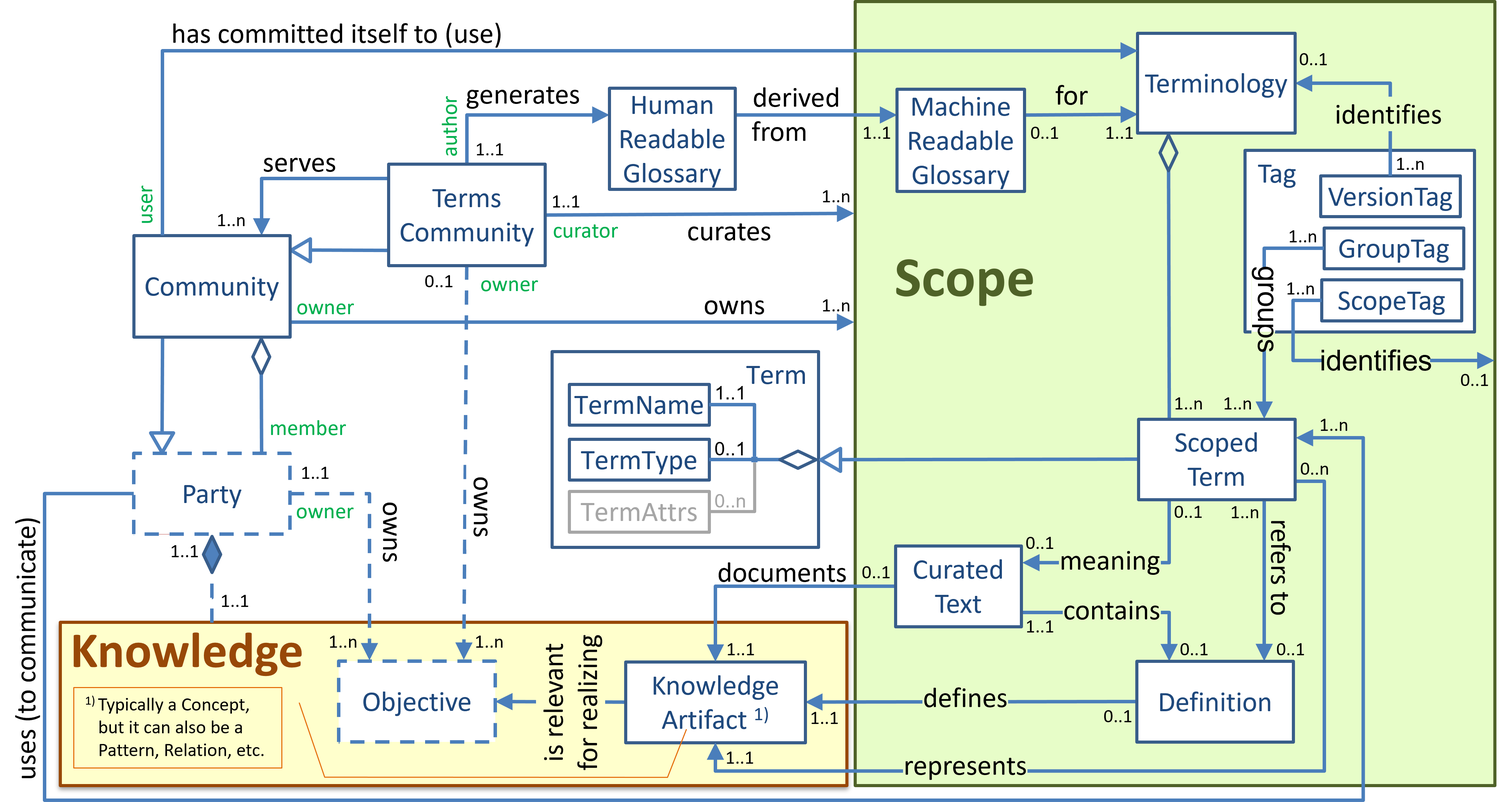
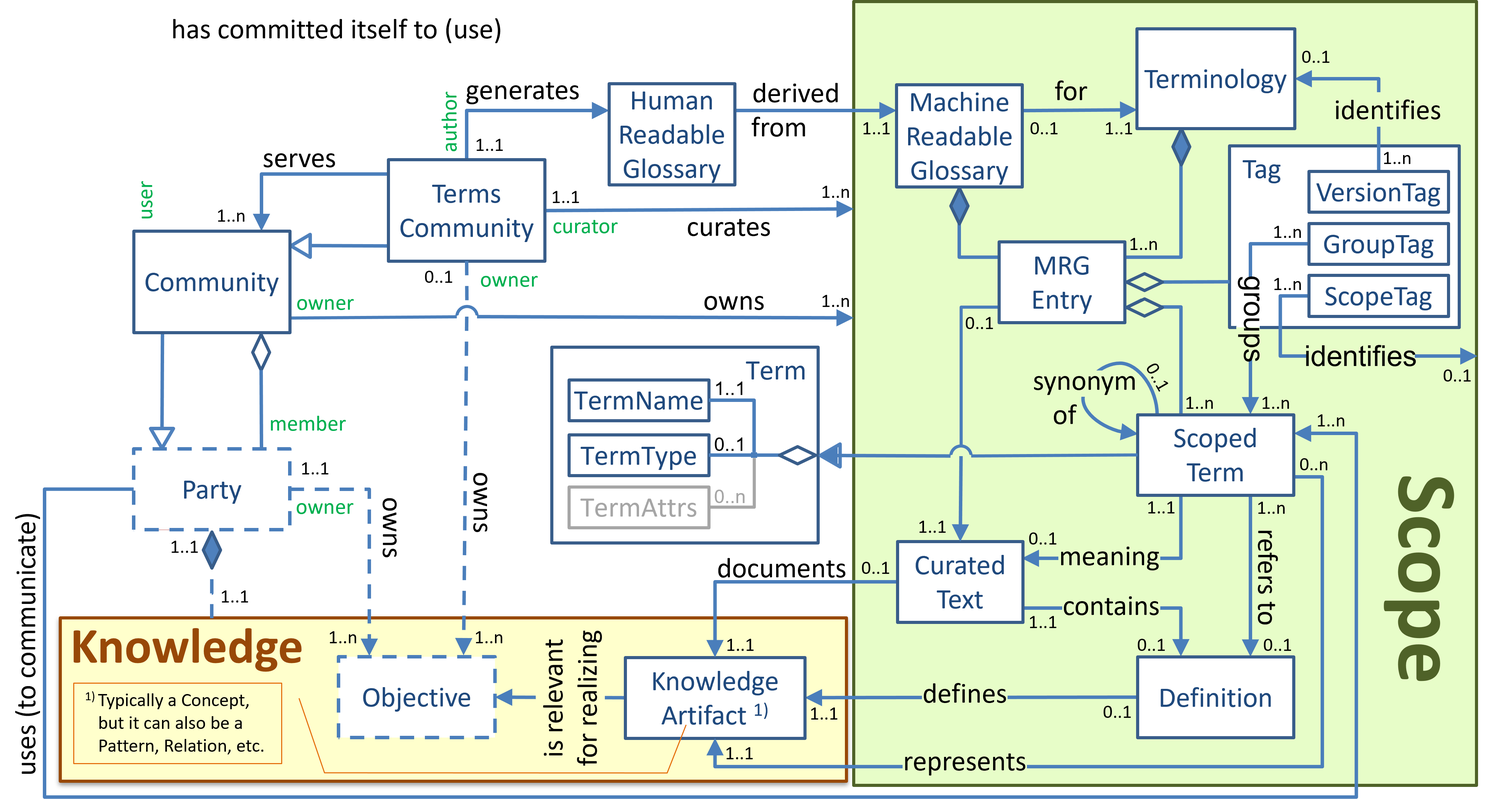
wip on terminology construction

diff --git a/sidebars.js b/sidebars.js
@@ -94,6 +94,10 @@ const sidebars = {
       ],
     },
     { type: 'category',
+      label: 'Mental Models',
+      items: [ { type: 'autogenerated', dirName: 'tev2/terms/patterns' } ]
+    },
+    { type: 'category',
       label: 'File Specs (for Curators)',
       items:
       [ 'tev2/spec-ctexts/ctext-spec',

diff --git a/docs/tev2/manuals/terminology-construction.md b/docs/tev2/manuals/terminology-construction.md
@@ -13,30 +13,44 @@ The entire section on Terminology Engine v 2 (TEv2) is still under construction.
 As TEv2 is not (yet) available, the texts that specify the tool are still 'raw', i.e. not yet processed.<br/>[readers](@) will need to see through some (currently unprocessed) notational conventions.
 :::
 
-[Curators](@) need the ability to construct (different versions of) the [terminology](@) for any [scope](@) they [curate](@). Conceptually, such a construction is equivalent with constructing a set of tuples `{ [termname, term, grouptags] }`, where `termname` [identifies](@) the meaning of the [term](@), `term` is the (humanly recognizable) [word or phrase](term@) that represents this meaning, and `grouptags` is a set of [grouptags](@) that the tuple is associated with; and all this is within the context of a specific version of the [terminology](@) of a specific [scope](@).
+[Curators](@) need the ability to construct (different versions of) the [terminology](@) for any [scope](@) they [curate](@).
 
-The process by which such a tuple-set is constructed is very simple: starting with an empty set, a list of so-called 'term selection criteria' instructions is sequentially processed, where the processing of each such instruction adds or removes tuples to/from the set, or changes the value of the `term` part of a specific tuple (renaming).
+Constructing a [terminology](@) consists of specifying the set of [terms](scoped-term@) that the [terminology](@) consists of, and making sure there is an [MRG entry](@) that holds all associated (meta) data that other (e.g. third party) tools may need. In other words, it consists of constructing the set of [MRG entries](@) for the [terms](scoped-term@) of the [terminology](@).
 
-[Curators](@) create and maintain the list of 'term selection criteria' instructions for every specific (version of a) [terminology](@) they decide to manage. Each such [terminology](@) has an entry in the [`versions` section](/docs/tev2/spec-files/saf#versions) of the [SAF](@) (of the designated [scope](@)), and the term selection criteria reside in the `termselcrit` field of that section.
+An [MRG entry](@) contains (meta) data about (the [(scoped) term](@) that represents/[identifies](@)) a specific [knowledge artifact](@) (an illustration can be found in the [terminology pattern](/docs/tev2/terms/patterns/pattern-terminology#formalized-model)). For constructing a [terminology](@), the following such data is relevant (as it enables one to [identify](@) (groups of) [terms](scoped-term@) that are to become part of that [terminology](@)):
+- the (preferred) [(scoped) term](@) for representing the [knowledge artifact](@), and its synonymous [terms](scoped-term@);
+- an [identifier](@) that enables one to find the [curated text](@) that documents this [artifact](knowledge-artifact@).
+- various [tags](@), amongst which are the [grouptags](@) that indicate the groups of [terms](scoped-term@) that the [term](scoped-term@) is a member of.
 
-## Term Selection Instruction Syntax {#syntax}
+The process for creating a [terminology](@) is as follows:
+1. start with an empty set of [MRG entries](@) - we use the term "terminology-under-construction" to refer to this set.
+2. sequentially process a list of so-called 'term selection criteria' instructions, where processing one of them adds, removes, or otherwise manipulates [MRG entries](@) in the terminology-under-construction (e.g. for renaming [terms](scoped-term@)). This is detailed [below](#crit-processing).
 
-We have distinct syntaxes to manipulate the set of tuples, each of which is specified in a subsequent section, that also describes how it will affect the tuple set under construction.
+[Curators](@) create and maintain the list of 'term selection criteria' instructions for every specific (version of a) [terminology](@) they decide to manage. Each such (versioned) [terminology](@) has an entry in the [`versions` section](/docs/tev2/spec-files/saf#versions) of the [SAF](@) (of the designated [scope](@)), and the term selection criteria reside in the `termselcrit` field of that section.
+
+## Processing a Term Selection Criterion {#crit-processing}
+
+We have defined a number of manipulations that can be done to contribute to construct a [terminology](@):
+1. Add [MRG entries](@) to the terminology-under-construction;
+2. Remove [MRG entries](@) from the terminology-under-construction;
+3. Rename/rewrite specific parts of [MRG entries](@), which enables [curators](@) e.g. to rename [terms](@).
 
 :::info Editor's note
 The below text must remain in sync with the first post of [issue #3 of the mrgt-repo](https://github.com/trustoverip/ctwg-toolkit-mrg/issues/3).
 :::
 
-### Adding terms to the tuple set {#syntax-add}
+### Adding MRG Entries to the terminology-under-construction {#syntax-add}
 
-A [curator](@) can add [terms](@) to the tuple set from different sources, i.e.
+A [curator](@) can add [MRG entries](@) to the terminology-under-construction from different sources, i.e.
 - [terms](@) that are defined in a [curated text](@) that exists in the current [scope](@), and
-- [terms](@) that are defined by an entry in some [MRG](@).
+- [terms](@) that are defined by an [MRG entry](@) in an existing [MRG](@) (from another [scope](@), or another version of the current [scope](@)).
+
+Note that any reference to (an [MRG entry](@) in) (the specific version of) the [terminology](@) that is being constructed, MUST be interpreted as a reference to the [curated text](@) from which the [MRG entry](@) would have been constructed.
 
 The following syntaxes can be used for adding terms (whitespace is disregarded):
+- `terms [ <termslist> ] @<scopetag>:<vsntag>`
+- `ids [ <idslist> ] @<scopetag>:<vsntag>`
 - `tags [ <grouptagslist> ] @<scopetag>:<vsntag>`
-- `terms [ <termlist> ] @<scopetag>:<vsntag>`
-- `ids [ <idlist> ] @<scopetag>:<vsntag>`
 - `* @<scopetag>:<vsntag>`
 
 <details>
@@ -44,9 +58,11 @@ The following syntaxes can be used for adding terms (whitespace is disregarded):
 
 | Instruction | What it does when processed |
 | :---------- | :---------- |
-| `tags[management,governance]@essiflab` | adds all [terms](@) that are part of the currently used [terminology](@) of the [scope](@) `essiflab`, that have the [grouptag](@) `management` or `governance`, to the tuple set.  |
-| `terms[party]@essiflab:v3.1` | adds the [term](@) `party` from version `v3.1` of the [terminology](@) of [scope](@) `essiflab`. |
-| `ids[pattern-party-actor-action]@essiflab` | adds the [term](@) to the tuple set that is specified in the [mrg entry](@) whose `id`-field contains `pattern-party-actor-action`. |
+| `terms[party]@essiflab:v3.1` | selects the [term](scoped-term@) `party@essiflab:v3.1`, and adds an [MRG entry](@) for the [knowledge artifact](@) that it represents. |
+| `ids[pattern-party-actor-action]@essiflab` | selects the [curated text](@) [identified](@) by `pattern-party-actor-action`, and adds an [MRG entry](@) for the [knowledge artifact](@) that it documents. |
+| `tags[management,governance]@essiflab` | selects all [terms](@) that are part of the default [terminology](@) of [scope](@) `essiflab`, that have the [grouptag](@) `management` or `governance`, and adds an [MRG entry](@) for each of them. |
+| `* @ctwg` | selects all [terms](@) that are part of the default [terminology](@) of the [scope(@) `ctwg`, and adds an [MRG entry](@) for each of them. |
+| `* @` | selects all [curated texts](@) from the current [scope](@), and for each of them, adds an [MRG entry](@) for the [knowledge artifact](@) that it documents.  |
 
 </details>
 
@@ -54,10 +70,10 @@ The following syntaxes can be used for adding terms (whitespace is disregarded):
 
 | symbol            | description |
 | ----------------- | :---------- |
-| `<vsntag>`        | the (optional) [versiontag](@) that [identifies](@) the version of the [terminology](@) from which [terms](@) are to be selected.|
-| `<scopetag>`      | the (optional) [scopetag](@) that [identifies](@) the [scope](@) from which [terms](@) are to be selected.|
+| `<vsntag>`        | (optional) [versiontag](@) that [identifies](@) the version of the [terminology](@) from which [terms](@) are to be selected. |
+| `<scopetag>`      | (optional) [scopetag](@) that [identifies](@) the [scope](@) from which [terms](@) are to be selected. |
 | `<grouptagslist>` | a (non-empty) comma-separated list of [grouptags](@). |
-| `<termnamelist>`    | a (non-empty) comma-separated list of [termnames](@). |
+| `<termslist>`     | a (non-empty) comma-separated list of [terms](@). |
 
 This syntax is processed as follows:
 1. **Select the source** from which to obtain the [terms](@), as follows:
@@ -75,7 +91,7 @@ This syntax is processed as follows:
 
 [^1]: In practice, tuples would typically also contain all other attributes that are associated with terms, similar, if not exactly the same as an [MRG entry](@).
 
-### Removing terms from the tuple set {#syntax-remove}
+### Removing MRG Entries from a terminology-under-construction {#syntax-remove}
 
 A [curator](@) can remove [terms](@) from the tuple set, using the following syntax (whitespace is disregarded):
 - `-tags [ <grouptagslist> ]`
@@ -102,7 +118,7 @@ This syntax is processed as follows:
 - In case the instruction starts with `-tags`, every tuple in the tuple set that is associated with at least one of the listed [grouptags](@) is removed from that set.
 - In case the instruction starts with `-termnames`, every tuple that is associated with any of the specified [termnames](@) is removed from the tuple set.
 
-### Renaming a term in the tuple set {#syntax-rename}
+### Rename/rewrite specific parts of an MRG entry {#syntax-rename}
 
 In analogy with [namespaces](https://en.wikipedia.org/wiki/Namespace), we accommodate for the renaming of [terms](@) as they are 'imported' from [terminologies](@) other than the one that we are constructing. However, the analogy breaks down in the sense that it is not only a [term](@) that should be renameable (which is sufficient for [namespaces](https://en.wikipedia.org/wiki/Namespace)), but also certain attributes may need to be changed.
 

diff --git a/docs/tev2/spec-files/21-mrg.md b/docs/tev2/spec-files/21-mrg.md
@@ -49,7 +49,7 @@ scopes: # mappings of scopetags that are used, and their scopedirs
     scopedir: https://github.com/essif-lab/framework/tree/master/docs
   - scopetag: ctwg
     scopedir: https://github.com/trustoverip/ctwg
-entries: # here follows an (unsorted) list of MRG-entries
+entries: # here follows an (unsorted) list of MRG entries
 ~~~
 
 </details>
@@ -112,22 +112,19 @@ An [MRG](@) consists of a list of [MRG entries](@), the purpose of which is that
 | Name         | Req'd | Description |
 | ------------ | :---: | :---------- |
 | `scopetag`     | Y | [Scopetag](@) that [identifies](@) the [scope](@) (within the scope in which the [MRG](@) is constructed) from within which the contents of the [MRG entry](@) is [curated](@), and obtained. The [`scopes` section](#mrg-scopes) in the [MRG](@) SHOULD contain a mapping between the `scopetag` and its associated [scope directory](@).<br/>Must satisfy regex `[a-z0-9_-]+`. |
-| `vsntag`       | Y | [Versiontag](@) that [identifies](@) the version of the [terminology](@) from which the contents of the [MRG entry](@) is obtained. Thus, `scopetag`:`versiontag` [identifies](@) that [terminology](@).<br/>Must satisfy regex `[a-z0-9_-.]+`.  |
+| `vsntag`       | Y | [Versiontag](@) that [identifies](@) the version of the [terminology](@) from which the contents of the [MRG entry](@) is obtained. If the contents of the [MRG entry](@) was constructed from a [curated text](@), its value equals the value of the `vsntag` field in the [`terminology`-section](#mrg-terminology) of the [MRG](@) that this [MRG entry](@) is a part of. As a result, `scopetag`:`versiontag` [identifies](@) the [terminology](@) from which this [MRG entry](@) has originated.<br/>Must satisfy regex `[a-z0-9_-.]+`.  |
 | `id`           | Y | Text that [identifies](@) the [curated text](@) from which the content of this [MRG entry](@) is obtained; it has the same value as the `id`-field in the header of a [curated text](@). In case the contents of the [MRG entry](@) was obtained from another [MRG](@), this field has the same value as the `id` field of the [MRG entry](@) from which the contents was obtained.<br/>Must satisfy regex `[a-z0-9_-]+`. |
-| `termname`     | Y | Name ([Identifier](@)) that is used to represent a [knowledge artifact](@). Actual, i.e. successful [identification](@) of the [knowledge artifact](@) may also depend on other characteristics, such as the `termtype`, as names are known to be [semantically overloaded](https://en.wikipedia.org/wiki/Semantic_overload). See [TEv2 identification](/docs/tev2/various-identifiers) for more details.<br/>Must satisfy regex `[a-z0-9_-]+`. |
-| `termtype`     | Y | Text that [identifies](@) the kind of [knowledge artifact](@) that this [MRG entry](@) refers to. Typical values would be `concept`, `relation`, `pattern` (or `mental-model`), `term` (or `alias`), or `usecase`.<br/>Must satisfy regex `[a-z0-9_-]+`. |
+| `termname`     | Y | [Name](term-name@) ([Identifier](@)) that is used to represent a [knowledge artifact](@). Actual, i.e. successful [identification](@) of the [knowledge artifact](@) may also depend on other characteristics, such as the `termtype`, as names are known to be [semantically overloaded](https://en.wikipedia.org/wiki/Semantic_overload). See [TEv2 identification](/docs/tev2/various-identifiers) for more details.<br/>Must satisfy regex `[a-z0-9_-]+`. |
+| `termtype`     | Y | [Text](term-type@) that [identifies](@) the kind of [knowledge artifact](@) that this [MRG entry](@) refers to. Typical values would be `concept`, `relation`, `pattern` (or `mental-model`), `term` (or `alias`), or `usecase`.<br/>Must satisfy regex `[a-z0-9_-]+`. |
 | `termattrs`    | n | List of [attributes](term-attrs@) that enable one to distinguish between [knowledge artifacts](@) that have the same [term name](@) and are of the same [type](term-type@). |
-| `glossaryText` | n | Text that is used as the (raw) contents for the entry of this [term](@) in a human readable [glossary](@). Note that this text SHOULD be allowed to contain [term refs](@). |
-| `hoverText`    | n | Text that can be used as the contents of a popup that shows as the [term](@) is rendered in a web browser and the [reader](@) hovers over the [term](@) with its mouse. |
-| `termreftext`  | n | `id` | [reftext](@) that [identifies](@) the [curated text](@) that documents the [knowledge artifact](@) that this term represents. |
+| `grouptags`    | n | List of [grouptags](@), each of which signifies that the [(scoped) term](@) that this [MRG entry](@) documents, is part of the group of [terms](@) that it represents.<br/>Each grouptag must satisfy regex `[a-z0-9_-]+`. |
 | `synonyms`     | n | | List of (optionally quoted) [terms](@), that are considered to also represent the [knowledge artifact](@) that is documented by the [curated text](@). |
 | `formphrases`  | n | List of [texts](formphrase@) that are [used to convert](/docs/tev2/spec-tools/trrt#id) the `show text` parts of [term refs](@) into `id`s, for the purpose of accommodating plural forms (for nouns) or conjugate forms (for verbs). For details, see ['Syntax Specs - Form Phrases](/docs/tev2/spec-syntax/form-phrase-syntax).](https://www.debuggex.com/r/TZe27fzbJskMcjl8). |
-| `grouptags`    | n | List of [grouptags](@), each of which signifies that the [(scoped) term](@) that this [MRG entry](@) documents, is part of the group of [terms](@) that it represents.<br/>Each grouptag must satisfy regex `[a-z0-9_-]+`. |
+| `glossaryText` | n | Text that is used as the (raw) contents for the entry of this [term](scoped-term@) in a human readable [glossary](@). Note that this text SHOULD be allowed to contain [term refs](@). |
+| `hoverText`    | n | Text that can be used as the contents of a popup that shows as the [term](scoped-term@) is rendered in a web browser and the [reader](@) hovers over the [term](@) with its mouse. |
 | `status`       | n | Text that identifies the status of the term. ([Communities](@) of) [scopes](@) may specify values for this field. An example is the [status tags used by ToIP](https://github.com/trustoverip/concepts-and-terminology-wg/blob/master/docs/status-tags.md). |
 | `created`      | n | Date at which of the [term](@)-related data was created, in the date format as used within this [scope](@). |
 | `updated`      | n | Date at which of the [term](@)-related data was last modified, in the date format as used within this [scope](@). |
-| `vsntag`       | n | [Versiontag](@) that identifies the version of the [knowledge artifact](@) that this [MRG entry](@) documents (not to be confused with the version of a [terminology](@) of which this [knowledge artifact](@) is a part).<br/>Must satisfy regex `[a-z0-9_-\.]+`. |
-| `commit`       | n | [Versiontag](@) that is a (git/gitlab) commit hash of the latest update of the [knowledge artifact](@). |
 | `contributors` | n | Text that shows (or refers to) the people that have contributed to the texts related to this term. |
 | `locator`      | n | Text that identifies the file that holds the [curated text](@) of the [knowledge artifact](@) that this [MRG entry](@) describes. The full URL of the [curated text](@) is `scopedir`/`curatedir`/`locator`, where `scopedir` and `curatedir` can be found in the [SAF](@) (which is in the root of `scopedir`). Note that `locator` may contain a path. |
 | `navurl`       | n | URL that locates a human readable, rendered version of the [curated text](@) of the [knowledge artifact](@) that this [MRG entry](@) describes. This URL is used to resolve [term refs](@) that refer to this [knowledge artifact](@). |

diff --git a/docs/tev2/terms/terminology.md b/docs/tev2/terms/terminology.md
@@ -9,7 +9,7 @@ formphrases: terminolog{yies}
 grouptags:
 status: proposed
 created: 2022-06-06
-updated: 2022-08-03
+updated: 2022-08-11
 vsntag: v0.1
 contributors: RieksJ
 # TEv2: type-specific front-matter for type `concept`
@@ -17,10 +17,10 @@ term: terminology  # Text that is the name of the concept in (human readable) te
 fullterm: terminology (in/of a scope)
 shorterm:
 synonyms:
-glossaryText: "a set of [terms](@) that are used within a single [scope](@) to refer to [concepts](@) and other [knowledge artifacts](@) of a single [party](@) (e.g. a [community](@)), enabling [parties](@) to reason and communicate ideas they have about one or more specific topics."
+glossaryText: "a set of [terms](scoped-term@) that are used within a single [scope](@) to refer to [concepts](@) and other [knowledge artifacts](@) of a single [party](@) (e.g. a [community](@)), enabling [parties](@) to reason and communicate ideas they have about one or more specific topics."
 # Docusaurus \(see https://docusaurus\.io/docs/api/plugins/@docusaurus/plugin-content-docs#markdown-front-matter\):
 title: "Terminology (in/of a Scope)"
-hoverText: "Terminology (in/of a Scope): a set of terms that are used within a single Scope to refer to Concepts and other Knowledge Artifacts of a single Party (e.g. a Community), enabling Parties to reason and communicate ideas they have about one or more specific topics."
+hoverText: "Terminology (in/of a Scope): a set of (Scoped) Terms that are used within a single Scope to refer to Concepts and other Knowledge Artifacts of a single Party (e.g. a Community), enabling Parties to reason and communicate ideas they have about one or more specific topics."
 # sidebar_label:
 # hide_table_of_contents: true
 ---
@@ -31,16 +31,19 @@ As TEv2 is not (yet) available, the texts that specify the tool are still 'raw',
 :::
 
 ### Summary
-A **terminology** is a set of [terms](@) that are used within a single [scope](@) to refer to [concepts](@) and other [knowledge artifacts](@) of a single [party](@) (e.g. a [community](@)), enabling [parties](@) to reason and communicate ideas they have about one or more specific topics. It may be viewed as a topic-specific subset of that [party's](@) [vocabulary](@).
+A **terminology** is a set of [terms](scoped-term@) that are used within a single [scope](@) to refer to [concepts](@) and other [knowledge artifacts](@) of a single [party](@) (e.g. a [community](@)), enabling [parties](@) to reason and communicate ideas they have about one or more specific topics. It may be viewed as a topic-specific subset of that [party's](@) [vocabulary](@).
 
-A [terminology](@) may be versioned, i.e. associated with a [versiontag]. This allows multiple [terminologies](@) to exist within a single [scope](@), enabling the [scope](@) to have one for specific purposes (e.g. for the further development of its [terms](@), or for use within a whitepaper).
+As each [term](@) in the [terminology](@) comes with all sorts of related data, such as a [definition](@), [documentation](curated-text@) about the [knowledge artifact](@) that it represents, [terms](@) that can be used as synonyms, etc., and since (pointers to) all that data is gathered in a single [MRG entry](@), we can also say that a [terminology](@) consists of the set of [MRG entries](@) that hold such data of the [terms](@) that the [terminology](@) consists of.
+
+As a consequence, it is easy [to generate](/docs/tev2/spec-tools/mrgt) an [MRG](@) for a [terminology](@), as this is basically the collection of the [MRG entries](@) that constitute the [terminology](@) (apart from [some meta-data](/docs/tev2/spec-files/mrg#mrg-structure), of course). And from there, [human readable glossaries](hrg@) can be [derived](/docs/tev2/spec-tools/hrgt).
+
+A [terminology](@) may be versioned, i.e. associated with a [versiontag](@). This allows multiple [terminologies](@) to exist within a single [scope](@), enabling the [scope](@) to have one for specific purposes (e.g. for the further development of its [terms](@), or for use within a whitepaper).
 
 A [terminology](@) can be documented by (at most) one [machine-readable glossary](mrg@), from which [human readable glossaries](hrg@) can be derived. Selecting the [(scoped) terms](@) that are part of a [terminology](@) and generating the various [glossaries](@) is done by the [curator(s)](@) of its [scope](@).
 
 The [terminology pattern](pattern-terminology@) provides an overview of how this concept fits in with related concepts.
 
+The [terminology construction section](/docs/tev2/manuals/terminology-construction) describes how to construct a [terminology](@) by selecting (groups of) [terms](scoped-term@), and manipulating such selections.
+
 ### Purpose
 In order for [parties](@) to properly reason and/or communicate ideas ([concepts](@) and other [knowledge artifacts](@)) about some topic - in particular when it is a specialist topic - they have to establish a set of [terms](@), the meaning of which should be [defined](@) (or otherwise documented) in such a way that the likelihood of misunderstandings between them is minimized. This set of terms is called a `**terminology**`
-
-### Criteria
-A **terminology** is the set of [terms](@) that are used within a single [scope](@) to refer to [concepts](@) and other [knowledge artifacts](@) of a single [party](@), enabling [parties](@) to reason and communicate ideas they have about one or more specific topics, for the purpose of reducing the likelihood of misunderstandings.

diff --git a/docs/tev2/spec-ctexts/00-ctext-spec.md b/docs/tev2/spec-ctexts/00-ctext-spec.md
@@ -92,21 +92,18 @@ The following table specifies the **generic header fields**:
 | `termname`     | Y | Name ([Identifier](@)) that is used to represent a [knowledge artifact](@). Actual, i.e. successful [identification](@) of the [knowledge artifact](@) may also depend on other characteristics, such as the `termtype`, as names are known to be [semantically overloaded](https://en.wikipedia.org/wiki/Semantic_overload). See [TEv2 identification](/docs/tev2/various-identifiers) for more details.<br/>Must satisfy regex `[a-z0-9_-]+`. |
 | `termtype`     | n | Text that [identifies](@) the kind of [knowledge artifact](@) that this [curated text](@) describes. Typical values would be `concept`, `relation`, `pattern` (or `mental-model`), `term` (or `alias`), or `usecase`.<br/>Must satisfy regex `[a-z0-9_-]+`. |
 | `termattrs`    | n | List of [attributes](term-attrs@) that enable one to distinguish between [knowledge artifacts](@) that have the same [term name](@) and are of the same [type](term-type@).<br/>Each list element must satisfy regex `[a-z0-9_-]+`. |
-| `glossaryText` | n | Text that is used as the (raw) contents for the entry of this [term](@) in a human readable [glossary](@). Note that this text SHOULD be allowed to contain [term refs](@). |
-| `hoverText`    | n | Text that can be used as the contents of a popup that shows as the [term](@) is rendered in a web browser and the [reader](@) hovers over the [term](@) with its mouse. This text SHOULD NOT contain [term refs](@). |
-| `termreftext`  | n | [reftext](@) that [identifies](@) the [curated text](@) that documents the [knowledge artifact](@) that this term represents. |
+| `grouptags`    | n | List of [grouptags](@), each of which signifies that the [(scoped) term](@) that this [curated text](@) documents, is part of the group of [terms](@) that it represents.<br/>Example: `[tev2, management]`.<br/>Must satisfy regex [`(?:\[\s*([a-z0-9_-]+)\s*(?:,\s*([a-z0-9_-]+))*\s*\])?`](https://www.debuggex.com/r/a51CXl1NzR3kwihT). |
 | `synonyms`     | n | List of [terms](@), other than the tuple {`termname`, `termtype`, `termaddtrs`}, that (also) represent the [knowledge artifact](@) that is documented by the [curated text](@). |
 | `formphrases`  | n | List of [texts](formphrase@) that are [used to convert](/docs/tev2/spec-tools/trrt#id) the `show text` parts of [term refs](@) into `id`s, for the purpose of accommodating plural forms (for nouns) or conjugate forms (for verbs). For details, see ['Syntax Specs - Form Phrases](/docs/tev2/spec-syntax/form-phrase-syntax). |
-| `grouptags`    | n | List of [grouptags](@), each of which signifies that the [(scoped) term](@) that this [curated text](@) documents, is part of the group of [terms](@) that it represents.<br/>Example: `[tev2, management]`.<br/>Must satisfy regex [`(?:\[\s*([a-z0-9_-]+)\s*(?:,\s*([a-z0-9_-]+))*\s*\])?`](https://www.debuggex.com/r/a51CXl1NzR3kwihT). |
+| `glossaryText` | n | Text that is used as the (raw) contents for the entry of this [term](@) in a human readable [glossary](@). Note that this text SHOULD be allowed to contain [term refs](@). |
+| `hoverText`    | n | Text that can be used as the contents of a popup that shows as the [term](@) is rendered in a web browser and the [reader](@) hovers over the [term](@) with its mouse. This text SHOULD NOT contain [term refs](@). |
 | `status`       | n | Text that identifies the status of the term. ([Communities](@) of) [scopes](@) may specify values for this field. An example is the [status tags used by ToIP](https://github.com/trustoverip/concepts-and-terminology-wg/blob/master/docs/status-tags.md). |
 | `created`      | n | Date at which of the [curated text](@) was created, in the date format as used within this [scope](@). |
 | `updated`      | n | Date at which of the [curated text](@) was last modified, in the date format as used within this [scope](@). |
-| `vsntag`       | n | Text that identifies the version of this [curated text](@).<br/>Must satisfy regex `[a-z0-9_-.]+`. |
 | `contributors` | n | Text that shows (or refers to) the people that have contributed to this [curated text](@). |
 
 :::info Editor's notes
-1. The field `termreftext` isn't properly defined yet, and therefore every use should be documented and fed back to the developers of TEv2.
-2. There is currently no generic syntax for [terms](@) - see [this issue](https://github.com/trustoverip/ctwg-toolkit-mrg/issues/15). Any use of this field should be mentioned and discussed there, until the syntax is defined.
+1. There is currently no generic syntax for [terms](@) - see [this issue](https://github.com/trustoverip/ctwg-toolkit-mrg/issues/15). Any use of this field should be mentioned and discussed there, until the syntax is defined.
 :::
 
 ## Type-specific Header Fields {#type-specific-header-fields}

diff --git a/docs/tev2/terms/mrg-entry.md b/docs/tev2/terms/mrg-entry.md
@@ -1,0 +1,52 @@
+---
+# `Multiple-use fields` \(used by TEv2 and Docusaurus\)
+id: mrg-entry
+# TEv2: generic front-matter for curated texts
+scope: tev2
+termtype: concept
+termid: mrg-entry
+formphrases: mrg-entr{yies}
+grouptags:
+status: proposed
+created: 2022-08-11
+updated: 2022-08-11
+vsntag: v0.1
+contributors: RieksJ
+# TEv2: type-specific front-matter for type `concept`
+isa:
+term: MRG Entry  # Text that is the name of the concept in (human readable) texts.
+fullterm:
+shorterm:
+synonyms:
+glossaryText: "A machine-readable (and interpretable) artifact that contains (pointers to) data and meta-data about a particular  [knowledge artifact](@), such as the associated [term(s)](@), its [definition](@), etc., to make it easy for IT-tools to create, e.g. documentation, [glossaries](@), [dictionaries](@), whitepapers, etc. that uses such [terms](@) ([definitions](@), etc.)."
+# Docusaurus \(see https://docusaurus\.io/docs/api/plugins/@docusaurus/plugin-content-docs#markdown-front-matter\):
+title: "MRG Entry"
+hoverText: "A machine-readable (and interpretable) artifact that contains (pointers to) data and meta-data about a particular  Knowledge Artifact, such as the associated term(s), its definition, etc., to make it easy for IT-tools to create, e.g. documentation, glossaries, dictionaries, whitepapers, etc. that uses such term(s) (definitions, etc.)."
+# sidebar_label:
+# hide_table_of_contents: true
+---
+
+:::caution
+The entire section on Terminology Engine v 2 (TEv2) is still under construction.<br/>
+As TEv2 is not (yet) available, the texts that specify the tool are still 'raw', i.e. not yet processed.<br/>[readers](@) will need to see through some (currently unprocessed) notational conventions.
+:::
+
+### Summary
+
+A **MRG Entry** is a machine-readable (and interpretable) artifact that contains (pointers to) data and meta-data about a particular  [knowledge artifact](@), such as the associated [term(s)](@), its [definition](@), etc., to make it easy for IT-tools to create, e.g. documentation, [glossaries](@), [dictionaries](@), whitepapers, etc. that uses such [terms](@) ([definitions](@), etc.).
+
+A [terminology](@) can be seen as the collection of [MRG entries](@) that hold all data related to the [terms](scoped-term@) that the [terminology](@) consists of.
+
+The contents of an [MRG entry](@) may vary, depending on the type of [knowledge artifact](@) that it documents. The kinds of data that are common for all [knowledge artifacts](@) are documented [here](http://localhost:3000/docs/tev2/spec-files/mrg#mrg-entries).
+
+The [terminology pattern](pattern-terminology@) provides an overview of how this concept fits in with related concepts.
+
+The [terminology construction section](/docs/tev2/manuals/terminology-construction) describes how [MRG entries](@) are selected (and manipulated) for the construction of a particular [terminology](@).
+
+### Purpose
+
+[MRG entries](@) provide all (meta) data about a particular [knowledge artifact](@) that IT-tools might need for their own purposes.
+
+As an example, consider a [terms-community](@) that would like to have an overview of all [terms](@) that it uses in a human readable way, and decides it needs a ([human readable](hrg@)) [glossary](@) of these [terms](@). Thus, they need a [tool](hrgt@) that knows how to find all these [terms](@) and their [definitions](@), and (after sorting them) render them into some human readable form. This [tool](hrgt@) would look for the [MRG](@) for that [terminology](@), which contains the [MRG entries](@) that contain all data that  the [tool](hrgt@) needs.
+
+As the number of tools that need (meta) data about [terms](@) grows, [MRG entries](@) will be expected to cater for such needs.

diff --git a/docs/tev2/terms/term.md b/docs/tev2/terms/term.md
@@ -67,6 +67,9 @@ There is an important [distinction](https://simple.wikipedia.org/wiki/Concept) b
 * in different contexts, a single [term](@) may represent different [concepts](@);
 * [to resolve terminological disputes](http://resolver.tudelft.nl/uuid:964a90da-da81-4d38-9f45-84f3f5fa96b3), which usually are about the 'correct' meaning of a [term](@), try to establish the criteria that the different participants use for the concept behind the term. That helps participants understand each others (different) positions, and provides a better basis for resolving the conflict.
 
+It is characteristic of a [term](scoped-term@) to represent ([identify](@)) a single [oncept](@) (or other [knowledge artifact](@), such as a mental model, use-case etc.). Most often, a [name](term-name@) (`TermName`) suffices for that purpose. However, there are also examples where the same [name](term-name@) is used to represent different kinds of [knowledge artifacts](@) (within a single [scope](@)), e.g. `guardianship` can represent a set of rights and duties that enables a guardian to care for a 'dependent', but `guardianship` can also refer to a [mental](@) model that deals with how to define such rights and duties, how to instantiate them, how they may be used, etc. Thus, there are cases where the [class/type](term-type@) (`TermType`) of the [knowledge artifact](@) must be taken into account as well.
+
+In theory, there is even more. For example a relation named 'Owns' can have different forms, e.g. 'Owns(Party,Idea)' would be quite different from 'Owns(Party,LegallyOwnedProperty)'. Distinguishing between such terms requires the ability to include [attributes](term-attrs@) (`TermAttrs`) in the [term](scoped-term@).
 ---
 ### Footnotes
 
